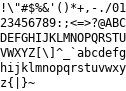
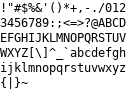
Fixed 2 fonts, added font test, removed tooltips

diff --git a/Demos/SWAN-Text-Demo.cpp b/Demos/SWAN-Text-Demo.cpp
@@ -1,0 +1,59 @@
+#define SDL_MAIN_HANDLED
+#include "Core/Display.hpp"       // For SWAN::Display::*
+#include "Core/EventListener.hpp" // For SWAN::EventListener, SWAN::CreateTimer()
+#include "Core/Input.hpp"         // For SWAN_Input
+#include "Core/Resources.hpp"     // For SWAN::Res::Get*
+
+#include "Rendering/Text.hpp" // For SWAN::RenderText()
+
+#include "Utility/Math.hpp"
+
+using namespace std::chrono;
+using Clock = std::chrono::steady_clock;
+
+void ParseArgv(int argc, const char** argv);
+void Usage();
+void Version();
+
+int main(int argc, const char** argv) {
+	SWAN::Display::Init(1280, 720, "SWAN GUI Demo");
+	SWAN_Input_Init();
+	SWAN::Display::SetClearColor(0.1f, 0.3f, 0.3f, 0.0f);
+
+	glEnable(GL_BLEND);
+	glBlendFunc(GL_SRC_ALPHA, GL_ONE_MINUS_SRC_ALPHA);
+
+	SWAN::Res::LoadFromFile("Resources/minires.xml");
+	bool running = true;
+	SWAN::Display::SetClearColor(0.0f, 0.3f, 0.25f, 0.0f);
+
+	SWAN::EventListener exitEvent(
+	    []() -> bool {
+		    return SWAN_Input.Keyboard.escapeKey ||
+		           SWAN_Input.Window.exitRequest;
+		},
+	    [&running]() { running = false; }, false);
+
+	SWAN::EventListener renderEvent =
+	    SWAN::CreateRepeatingTimer(16ms, [=] {
+		    SWAN::RenderText(
+		        0, 0,
+		        text,
+		        SWAN::Res::GetShader("Text"),
+		        SWAN::Res::GetBitmapFont("Terminus 10"),
+		        SWAN::Color{ 255, 255, 255, 255 },
+		        SWAN::Color{ 100, 100, 100, 255 });
+
+		    SWAN::Display::Clear();
+		});
+
+	while(running) {
+		exitEvent();
+		SWAN_Input.handleEvents();
+		renderEvent();
+	}
+
+	SWAN::Display::Close();
+
+	return 0;
+}

diff --git a/Source/GUI/Element.cpp b/Source/GUI/Element.cpp
@@ -86,70 +86,6 @@ namespace GUI {
 		return res;
 	}
 
-	EventListener CreateTooltipListener(
-	    Element* el,
-	    std::string text,
-	    const BitmapFont* f,
-	    Shader* s,
-	    Clock::duration delay) {
-
-		struct TimedListener {
-			TimedListener(Clock::duration dur, EventListener::CheckFuncT check)
-			    : dur(dur), check(check) {}
-
-			bool started = false;
-			Clock::time_point start;
-			Clock::duration dur;
-			EventListener::CheckFuncT check;
-
-			bool operator()() {
-				if(!started) {
-					if(check()) {
-						started = true;
-						start   = Clock::now();
-					}
-					return false;
-				} else {
-					if(check()) {
-						if(Clock::now() - start >= dur) {
-							return true;
-						} else {
-							return false;
-						}
-					} else {
-						started = false;
-						return false;
-					}
-				}
-			}
-		};
-
-		EventListener res(
-		    TimedListener(
-		        delay,
-		        [el]() -> bool {
-			        return GetCurrMouseState().mousesOver(el->x, el->y, el->w, el->h);
-			    }),
-		    [text, s, f] {
-			    int w = f->getTextWidth(text),
-			        h = f->getTextHeight(text);
-
-			    MouseState ms = GetCurrMouseState();
-
-			    int x = ms.x + 10,
-			        y = ms.y + 10;
-
-			    if(ms.x + w > Display::GetWidth())
-				    x -= w;
-			    if(ms.y + h > Display::GetHeight())
-				    y -= h;
-
-			    RenderText(x, y, text, s, f, Color{ 255, 255, 255, 255 }, Color{ 0, 0, 0, 255 });
-			});
-
-		return res;
-	}
-
 	static inline EventListener CreateOnMouseEnterListener(Element* el) {
 		return CreateOnMouseEnterListener(el, [] {});
 	}

diff --git a/Demos/SWAN-GUI-Demo.cpp b/Demos/SWAN-GUI-Demo.cpp
@@ -37,16 +37,7 @@ int main(int argc, const char** argv) {
 
 	bool running = true;
 
-	auto* b = guiRenderer.add(SWAN::GUI::CreateButton(10, 10, 100, 100, BUTTON_RES, [&running] { running = false; }));
-
-	b->setVisible(true)
-	    .addListener(
-	        CreateTooltipListener(
-	            b, "Exit button.\n'Nuff said. ",
-	            SWAN::Res::GetBitmapFont("Monospace 16"),
-	            SWAN::Res::GetShader("Text"),
-	            2s));
-
+	guiRenderer.add(SWAN::GUI::CreateButton(10, 10, 100, 100, BUTTON_RES, [&running] { running = false; }));
 	guiRenderer.add(SWAN::GUI::CreateButton(10, 150, 100, 100, BUTTON_RES, [] {}))->setVisible(false);
 	guiRenderer.add(SWAN::GUI::CreateButton(150, 150, 100, 100, BUTTON_RES, [] {}));
 
@@ -116,7 +107,7 @@ int main(int argc, const char** argv) {
 		    guiRenderer.render();
 
 		    SWAN::RenderText(
-		        200, 200,
+		        0, 0,
 		        "!!!! \\\\\\\\ \"\"\"\"",
 		        SWAN::Res::GetShader("Text"),
 		        SWAN::Res::GetBitmapFont("Monospace 16"),

diff --git a/Source/GUI/Element.hpp b/Source/GUI/Element.hpp
@@ -1,6 +1,5 @@
 #ifndef SWAN_GUI_ELEMENT_HPP
 #define SWAN_GUI_ELEMENT_HPP
-
 #include "Core/EventListener.hpp" // For SWAN::EventListener
 #include "Core/Input.hpp"         // For SWAN_Input
 #include <memory>                 // For std::unique_ptr<T>
@@ -230,14 +229,6 @@ namespace GUI {
 	    const Texture* normal,
 	    const Texture* active,
 	    std::function<void(bool)> onChange);
-
-	extern EventListener CreateTooltipListener(
-	    Element* el,
-	    std::string text,
-	    const BitmapFont* f,
-	    Shader* s,
-	    Clock::duration delay);
-
 } // namespace GUI
 } // namespace SWAN
 
